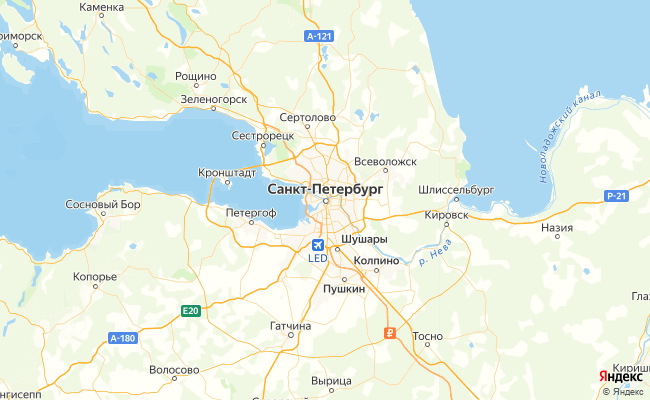
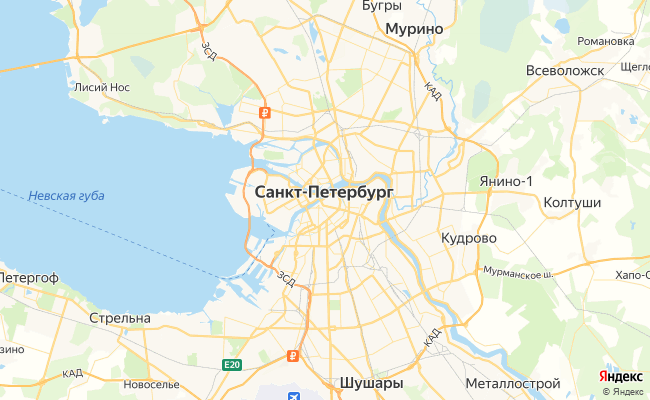
add scale change 2.1

diff --git a/window.py b/window.py
@@ -32,13 +32,15 @@ class Window:
         # screen.blit(text, (20, 20))
 
     def events_processing(self, event):
-        if event.type == pygame.KEYDOWN and event.key == pygame.K_PAGEUP and float(self.map_scale.split(",")[0]) > 0.002:
-            self.map_scale = f"{str(float(self.map_scale.split(",")[0]) * 0.5)},{str(float(self.map_scale.split(",")[1]) * 0.5)}"
+        if event.type == pygame.KEYDOWN:
+            if event.key == pygame.K_PAGEUP and float(self.map_scale.split(",")[0]) > 0.002:
+                self.map_scale = (f"{str(float(self.map_scale.split(',')[0]) * 0.5)},"
+                                  f"{str(float(self.map_scale.split(',')[1]) * 0.5)}")
+            if event.key == pygame.K_PAGEDOWN and float(self.map_scale.split(",")[0]) < 20:
+                self.map_scale = (f"{str(float(self.map_scale.split(',')[0]) / 0.5)},"
+                                  f"{str(float(self.map_scale.split(',')[1]) / 0.5)}")
             self.get_image()
 
-        elif event.type == pygame.KEYDOWN and event.key == pygame.K_PAGEDOWN and float(self.map_scale.split(",")[0]) < 20:
-            self.map_scale = f"{str(float(self.map_scale.split(",")[0]) / 0.5)},{str(float(self.map_scale.split(",")[1]) / 0.5)}"
-            self.get_image()
 
 if __name__ == "__main__":
     pygame.init()
